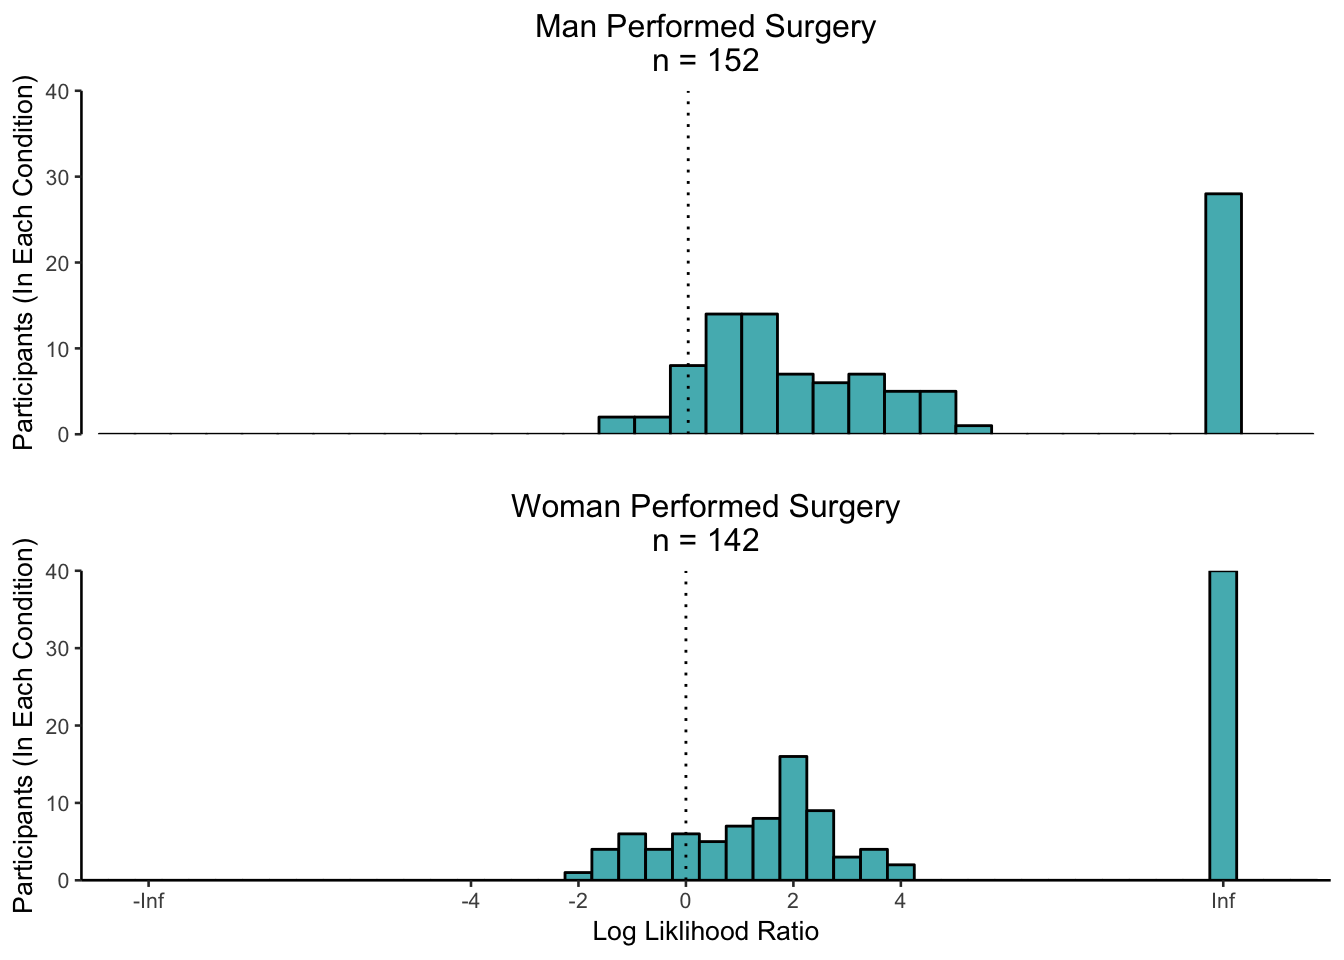
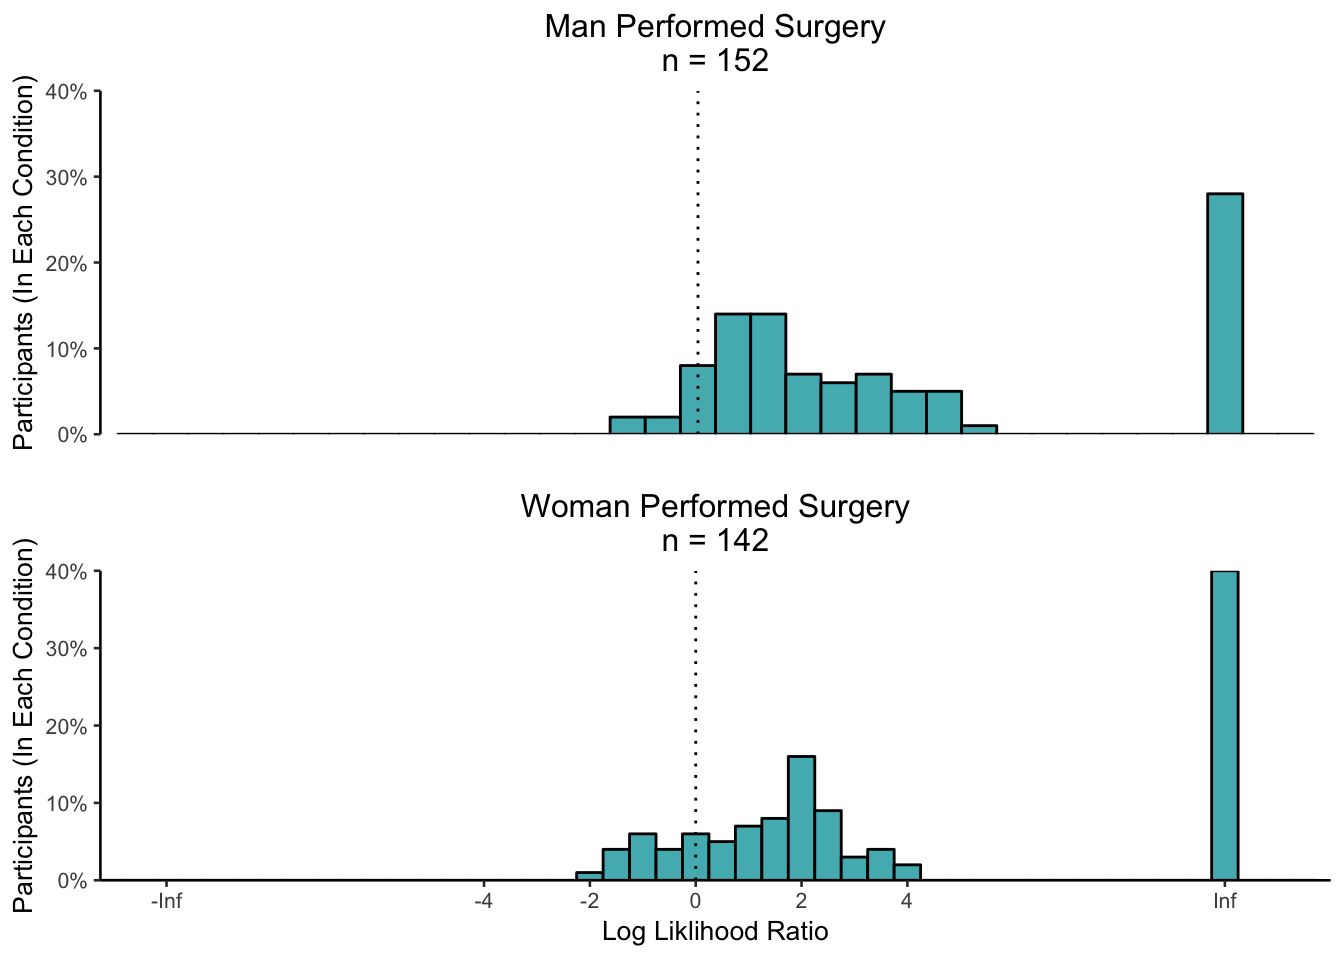
edited ques6&7

diff --git a/docs/DataVis.html b/docs/DataVis.html
@@ -505,7 +505,10 @@ g1&lt;- ggplot(df, aes(x=y))+
   scale_x_continuous(breaks=c(),
                      labels=c(&quot; &quot;),
                      limits = c(0,35), expand = c(0, 0))+
-  scale_y_continuous(limits = c(0,40), expand = c(0, 0))+
+  scale_y_continuous(breaks=c(0,10,20,30,40),
+                     labels=c(&quot;0%&quot;,&quot;10%&quot;,&quot;20%&quot;,&quot;30%&quot;,&quot;40%&quot;),
+                     limits=c(0,40),
+                     expand = c(0, 0))+
   labs(x=&quot; &quot;, y=&quot;Participants (In Each Condition)&quot;)+
   ggtitle(&quot;Man Performed Surgery\nn = 152&quot;)+
   geom_vline(xintercept=17, linetype=&quot;dotted&quot;)+
@@ -522,7 +525,10 @@ g2 &lt;- ggplot(df, aes(x=y))+
                      labels=c(&quot;-Inf&quot;,&quot;-4&quot;,&quot;-2&quot;,&quot;0&quot;,&quot;2&quot;,&quot;4&quot;,&quot;Inf&quot;),
                      limits=c(-11.25,12),
                      expand = c(0, 0))+
-  scale_y_continuous(limits = c(0,40), expand = c(0, 0))+
+  scale_y_continuous(breaks=c(0,10,20,30,40),
+                     labels=c(&quot;0%&quot;,&quot;10%&quot;,&quot;20%&quot;,&quot;30%&quot;,&quot;40%&quot;),
+                     limits=c(0,40),
+                     expand = c(0, 0))+
   labs(x=&quot;Log Liklihood Ratio&quot;, y=&quot;Participants (In Each Condition)&quot;)+
   ggtitle(&quot;Woman Performed Surgery\nn = 142&quot;)+
   geom_vline(xintercept=0, linetype=&quot;dotted&quot;)+
